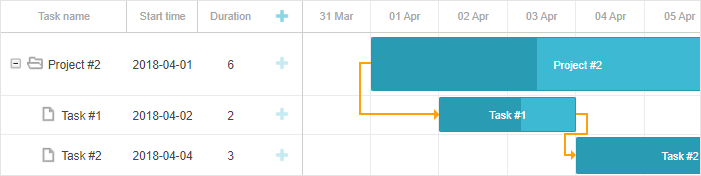
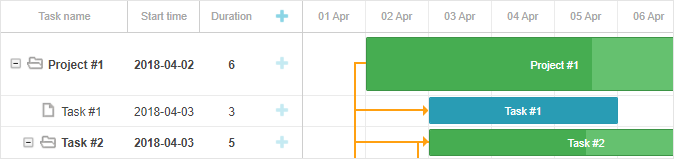
[update] images, add list of fixes to what's new

diff --git a/data/whatsnew.md b/data/whatsnew.md
@@ -30,10 +30,20 @@ The update brings changes to some parts of the component. While the update doesn
 - [The ability to set different working hours for different time spans](desktop/working_time.md#rules_for_periods)
 - [The ability to set the height for a separate row in the grid](desktop/resizing_rows.md#settingtherowheight)
 - [The ability to resize a row in the grid by drag-and-drop](desktop/resizing_rows.md#resizingrowsbydraganddrop)
-- The ability to get the height of the DOM element of the task via the [getTaskBarHeight](api/gantt_gettaskbarheight.md) method
+- The ability to get the height of the DOM element of the task via the [gantt.getTaskBarHeight()](api/gantt_gettaskbarheight.md) method
 - New events: [onBeforeRowResize](api/gantt_onbeforerowresize_event.md), [onRowResize](api/gantt_onrowresize_event.md), [onBeforeRowResizeEnd](api/gantt_onbeforerowresizeend_event.md), [onAfterRowResize](api/gantt_onafterrowresize_event.md)
 - The [onrender](desktop/specifying_columns.md#modifyingcellsafterrendering) callback for rendering a grid cell into DOM is added
 - The [onrender](api/gantt_addtasklayer.md) callback for rendering a custom element of the task layer into DOM is added
+
+### Fixes
+
+- Fix the issue with reordering tasks vertically in the resource view when resources have values assigned 
+- Fix the issue that caused "resource_cell_value" not being called and the resource markers not being rendered if a task doesn't start at the beginning of the timeline cell 
+- Fix the issue that caused Gantt to stop working when deleting the task with the id that already exists in the data store
+- Fix the script error thrown when specifying the 0 number value as a task id even if the "root_id" parameter is set
+- Fix the issue that caused the resizer listener not to work in Salesforce environment
+- Fix the script error appeared when applying [Fullscreen Extension](desktop/fullscreen_ext.md) several times together with its methods
+- Fix the issue with [Keyboard Navigation Extension](desktop/keynav_ext.md) that caused navigation in Grid to stop working when adding the pligin several times
 
 7.0.13
 ------

diff --git a/data/desktop/resizing_rows.md b/data/desktop/resizing_rows.md
@@ -22,12 +22,12 @@ For that, you need to redefine the **row_height** and the **bar_height** propert
 ~~~js
 gantt.parse({
 	data: [
-		{ id: 1, text: "Project #2", start_date: "01-04-2018", duration: 18, 
-            progress: 0.4, open: true, row_height: 70, bar_height: 60 },
-		{ id: 2, text: "Task #1", start_date: "02-04-2018", duration: 8, 
-            progress: 0.6, parent: 1 },
-		{ id: 3, text: "Task #2", start_date: "11-04-2018", duration: 8, 
-            progress: 0.6, parent: 1 }
+		{ id: 11, text: "Project #1", type: "project", progress: 0.6, open: true, 
+			row_height: 70, bar_height: 60 }, /*!*/
+		{ id: 12, text: "Task #1", start_date: "03-04-2018", duration: "5", 
+			parent: "11", progress: 1, open: true },
+		{ id: 13, text: "Task #2", start_date: "03-04-2018", type: "project", 
+			parent: "11", progress: 0.5, open: true }
 	],
 	links: []
 });
@@ -36,8 +36,8 @@ gantt.parse({
 or you can implement it dynamically:
 
 ~~~js
-gantt.getTask(1).row_height = 50;
-gantt.getTask(1).bar_height = 25;
+gantt.getTask(11).row_height = 50;
+gantt.getTask(11).bar_height = 25;
 // re-render Gantt to apply the changes
 gantt.render();
 ~~~

diff --git a/data/desktop/guides.md b/data/desktop/guides.md
@@ -65,6 +65,7 @@ Check the [features available in the Standard and PRO versions](desktop/editions
             </h4>
             <ul id="events_sublist">
                     <li>desktop/specifying_columns.md</li>
+                    <li>desktop/resizing_rows.md</li>
                     <li>desktop/tree_column.md</li>
                     <li>desktop/reordering_tasks.md</li>
                     <li>desktop/multiselection.md</li>
